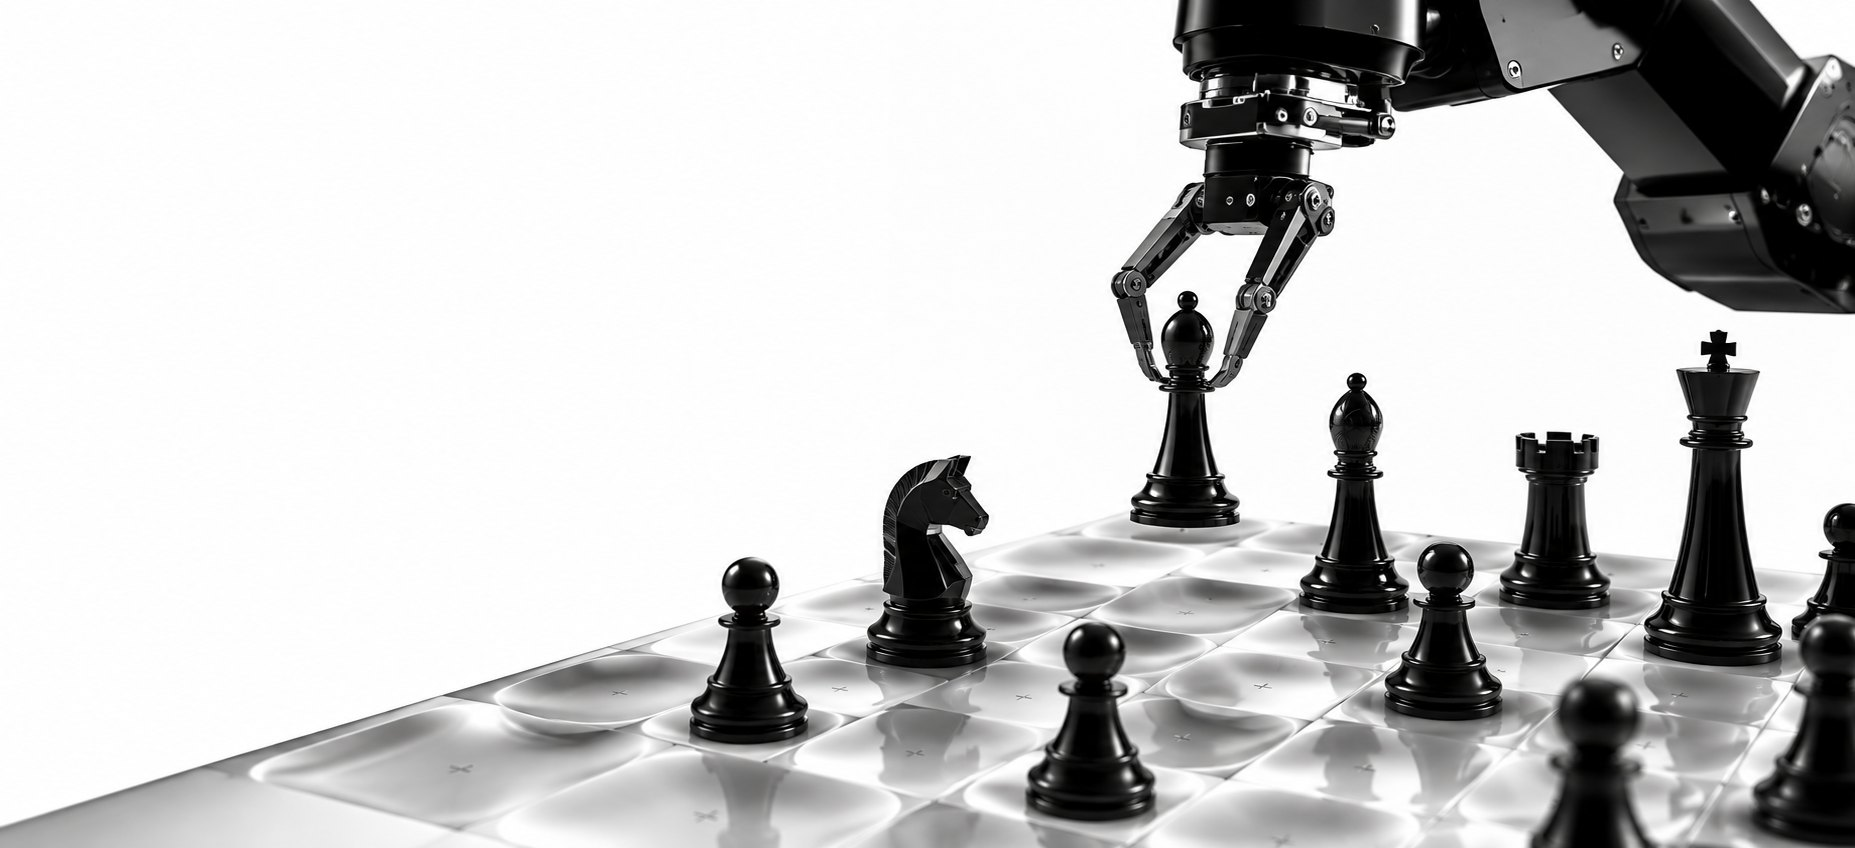
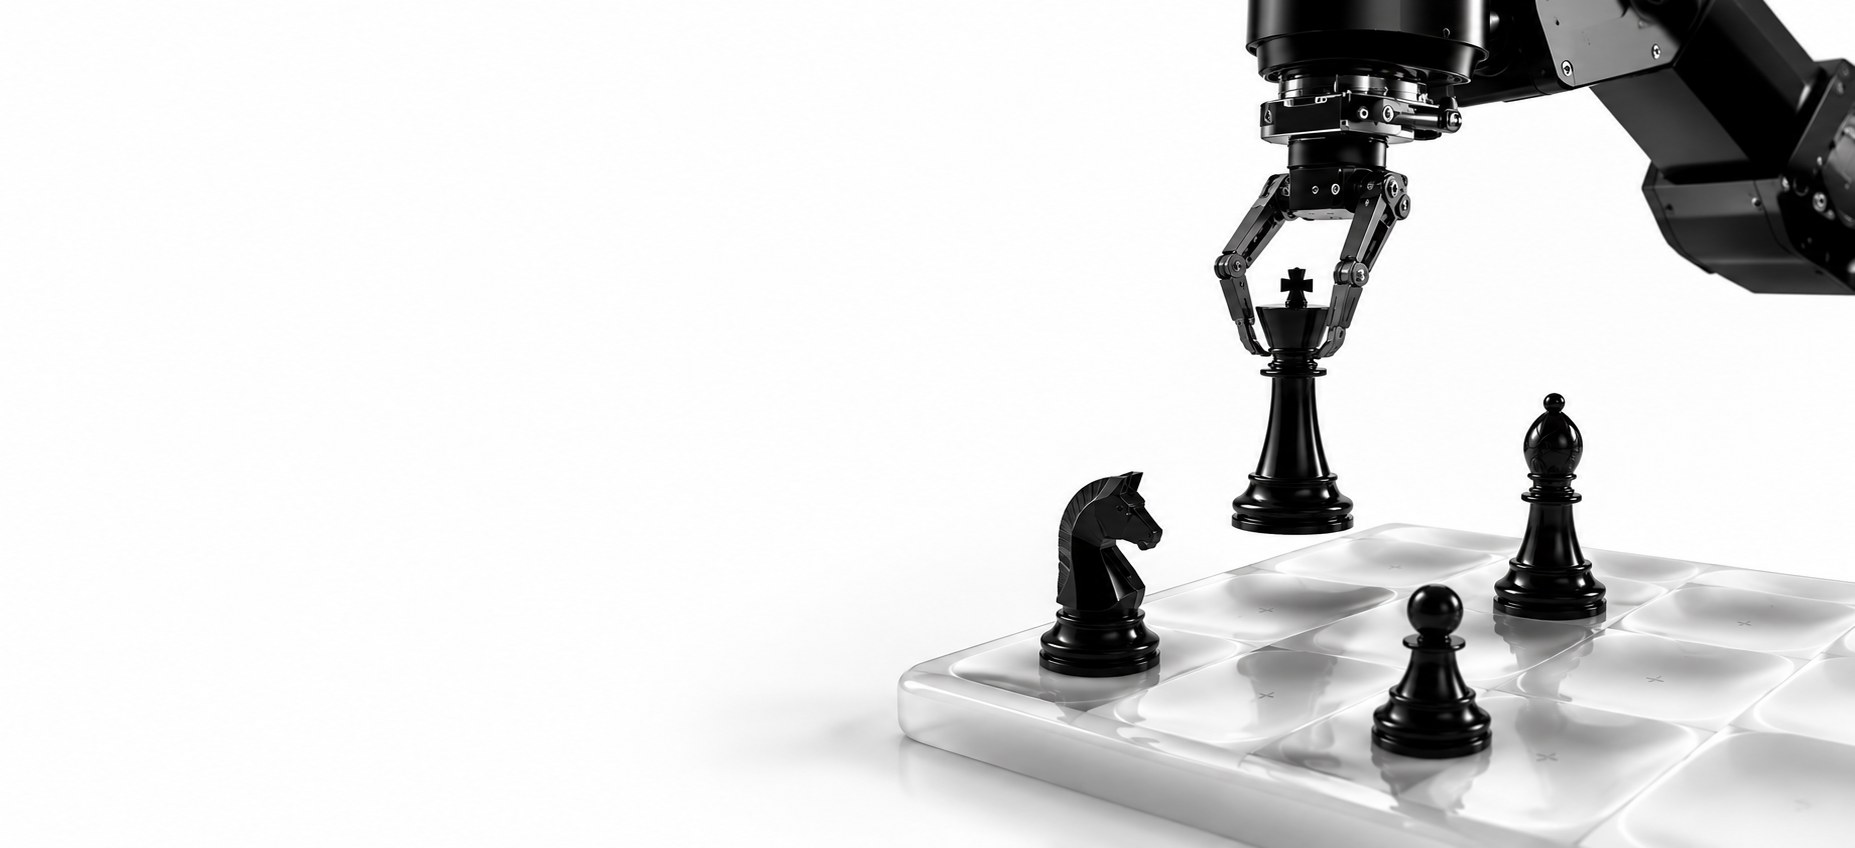
Nouvelle image de fond du héros (background site web 2)

diff --git a/styles.css b/styles.css
@@ -85,7 +85,7 @@ h3 { font-size: clamp(18px, 1.6vw, 24px); }
 /* ── 1. Héros ── */
 .hero {
   --hero-top-h: 64px;        /* hauteur de la barre logo + menu */
-  background: var(--white) url("assets/fond-heros.jpg") no-repeat right var(--hero-top-h) / cover;
+  background: var(--white) url("assets/fond-heros.jpg?v=2") no-repeat right var(--hero-top-h) / cover;
   padding: 0 var(--pad) 0; justify-content: space-between; overflow: hidden;
 }
 /* barre blanche pleine largeur, séparée de la photo par un trait gris */

diff --git a/index.html b/index.html
@@ -13,7 +13,7 @@
   <link rel="preconnect" href="https://fonts.googleapis.com">
   <link rel="preconnect" href="https://fonts.gstatic.com" crossorigin>
   <link href="https://fonts.googleapis.com/css2?family=Inter+Tight:wght@400;500;600&family=Inter:wght@400;500;600&display=swap" rel="stylesheet">
-  <link rel="stylesheet" href="styles.css?v=6">
+  <link rel="stylesheet" href="styles.css?v=7">
 </head>
 <body>
 
